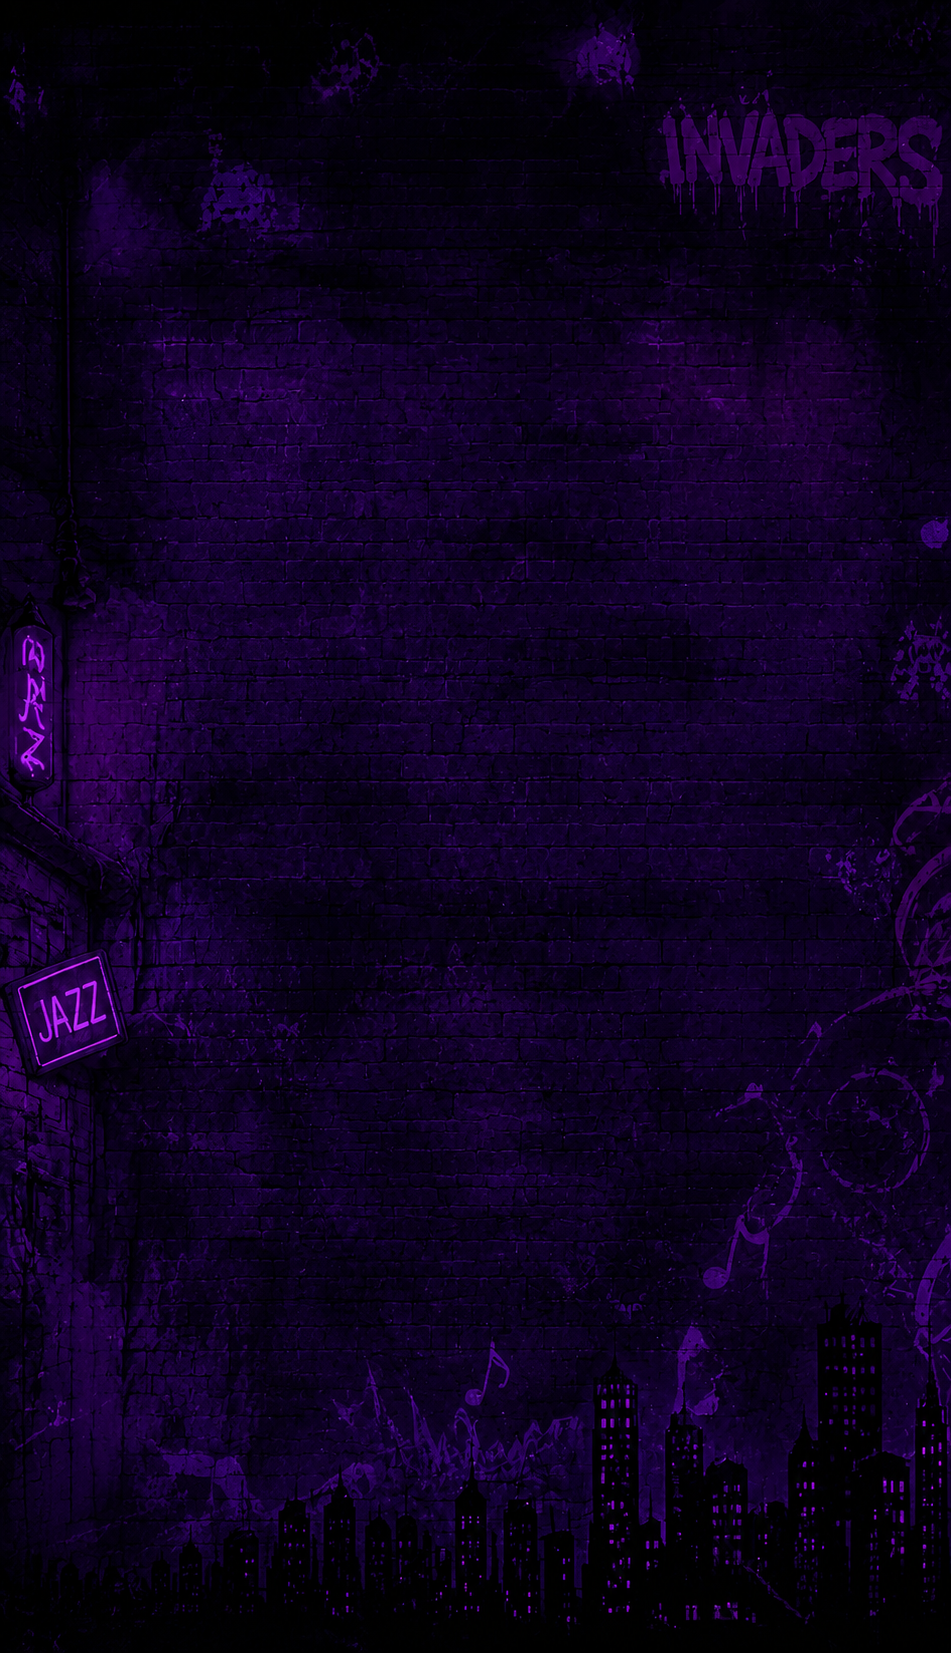
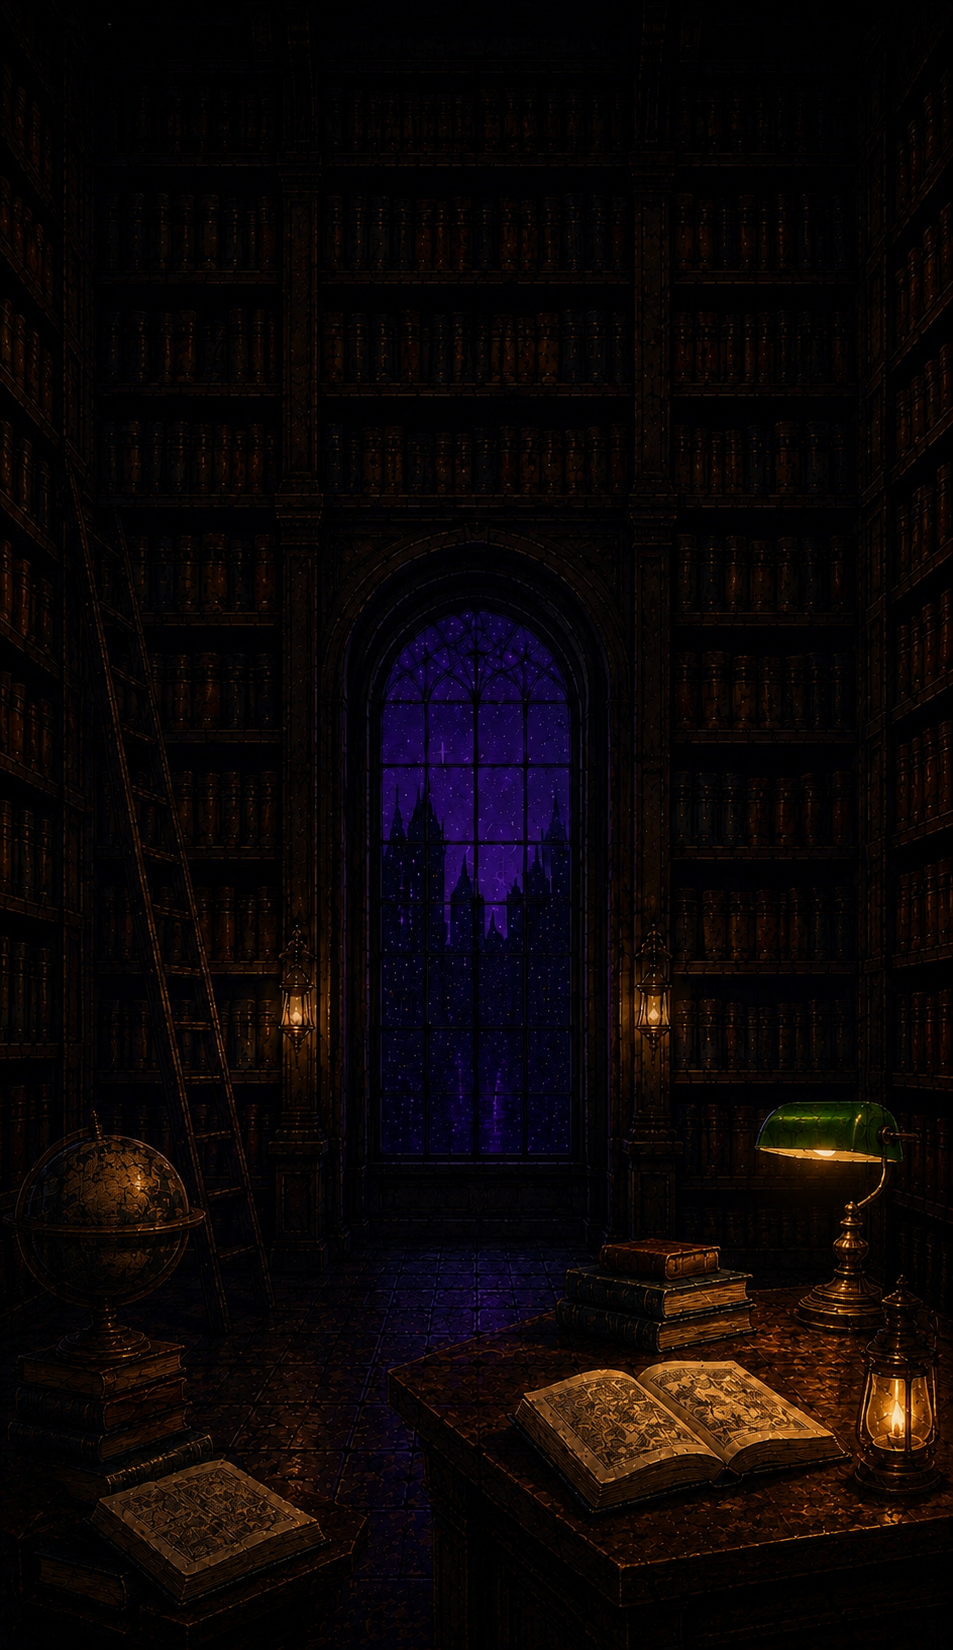
Adjust stage 3 enemy and team size

diff --git a/script.js b/script.js
@@ -23,8 +23,8 @@ const cardImage = document.getElementById("cardImage");
 
 const enemyImage = new Image();
 
-const enemyW = 60;
-const enemyH = 70;
+const enemyW = 72;
+const enemyH = 84;
 const enemyGlow = 0;
 
 const enemySprite = document.createElement("canvas");
@@ -446,7 +446,7 @@ let teamBullets = [];
 const team3 = {
     x:canvas.width / 2,
     y:canvas.height * 0.32,
-    size:65
+    size:45
 };
 
 let team3ShotTimer = 0;
@@ -717,7 +717,7 @@ if(currentStage === 2 && !clearFlag){
 
 if(currentStage === 3 && !clearFlag){
 
-    team3.x = boss.x;
+    team3.x = canvas.width / 2;
     team3.y = boss.y + 130;
 
     team3ShotTimer++;